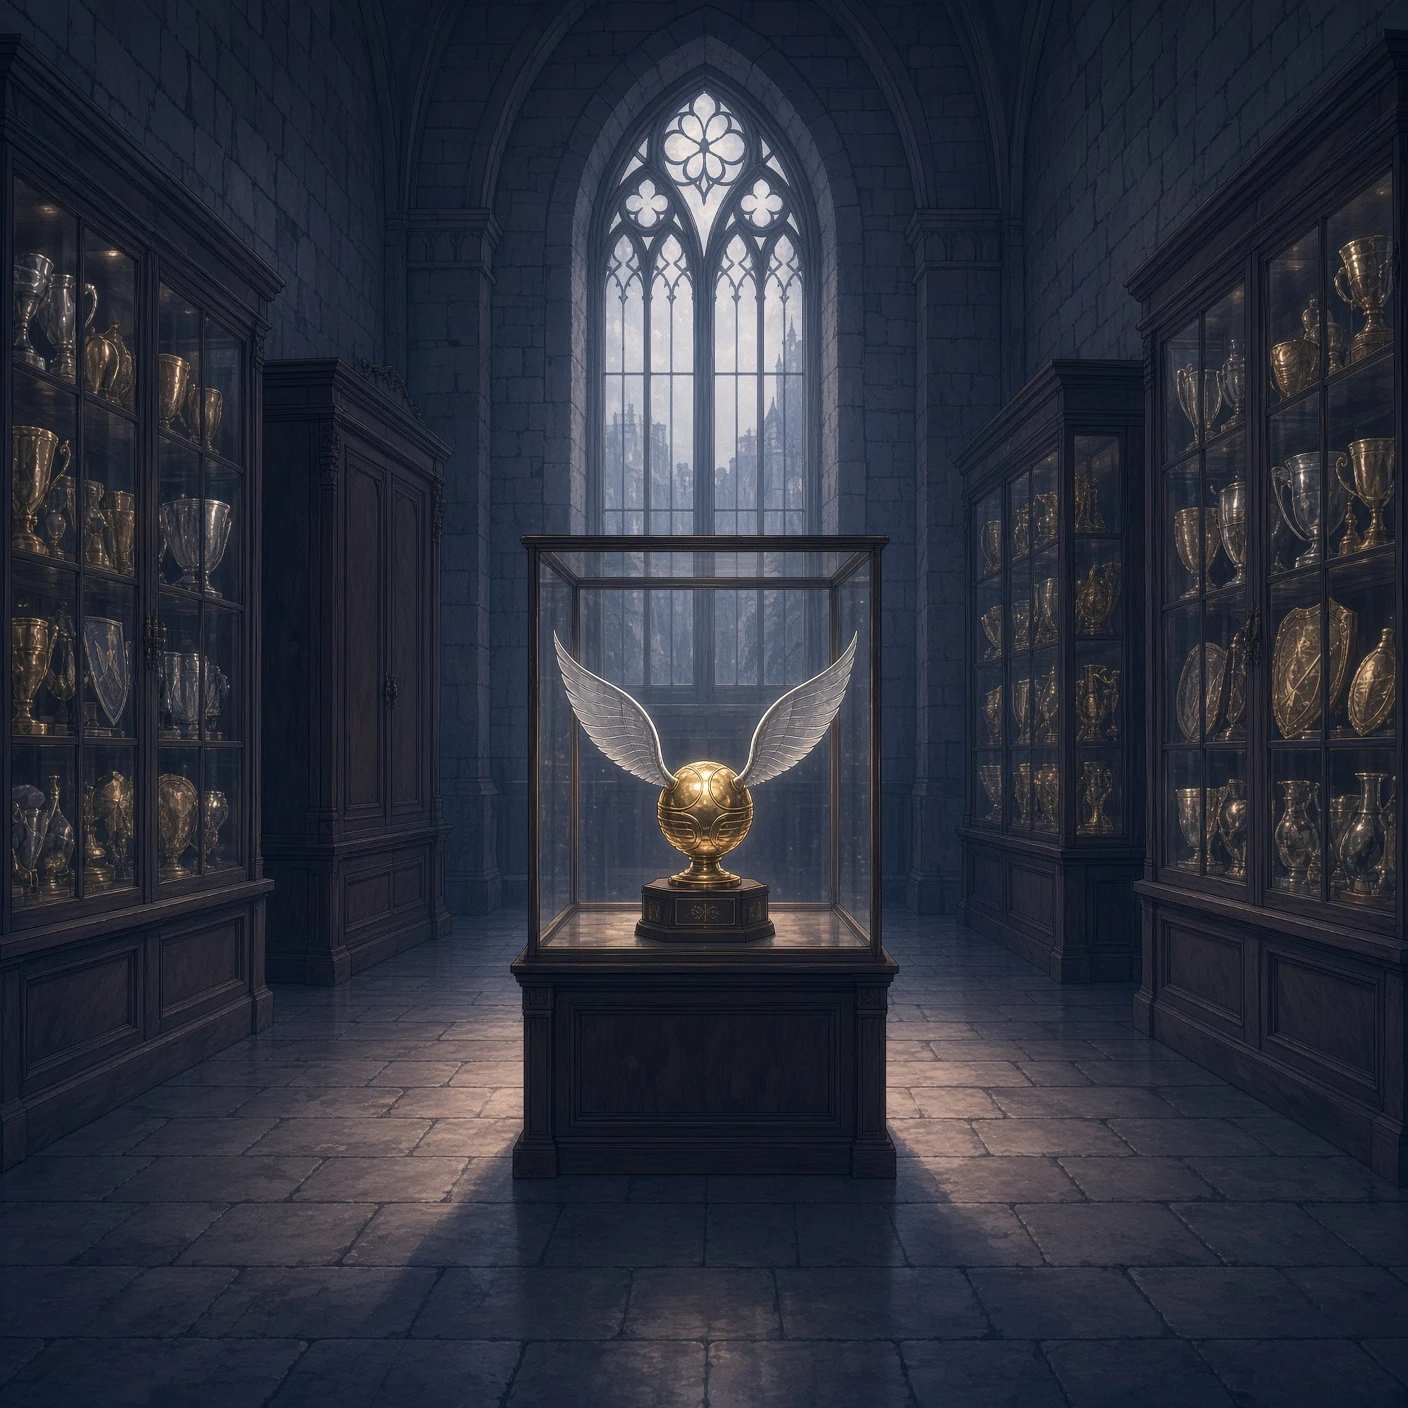
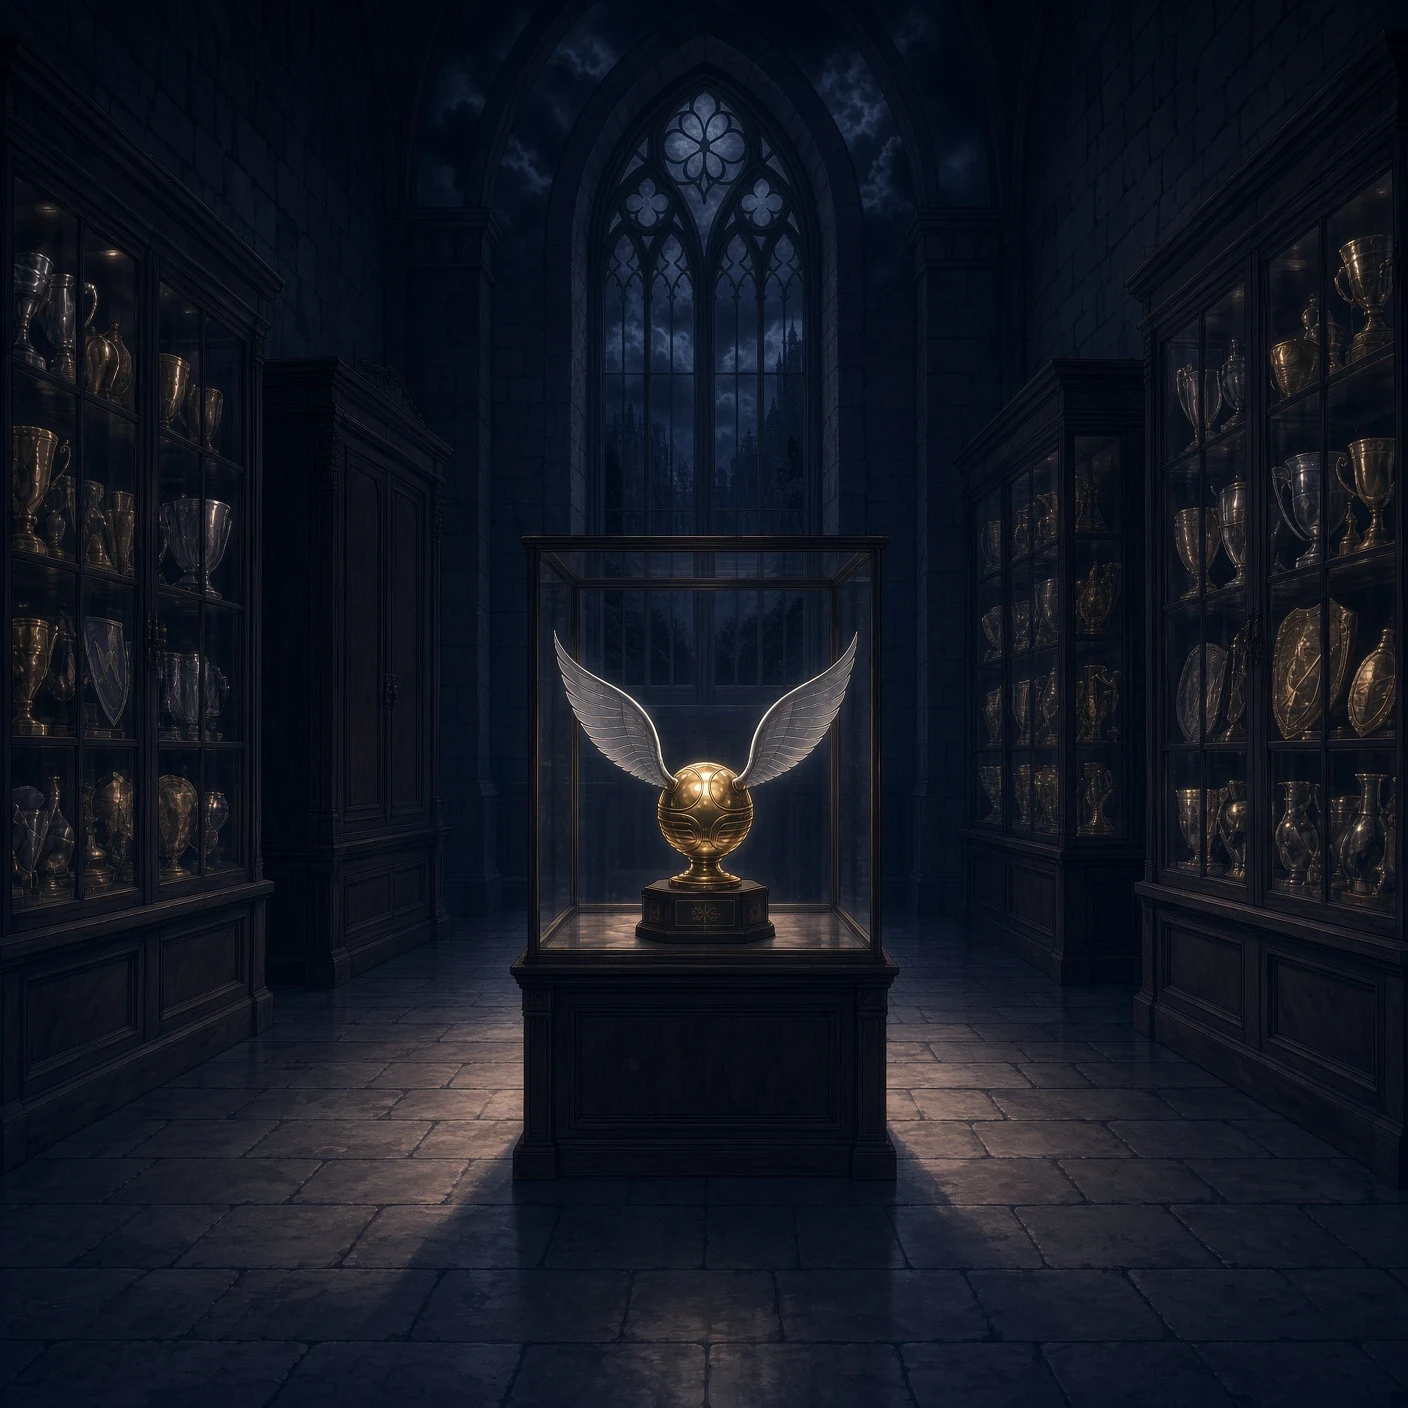
v1.2.2：修正換背景後角色未登場、設定頁按鈕與字色、奈威立繪 - 第三、五、八、十一章共 20 處：換背景後補上角色登場（原本轉成換表情，角色消失） - analyze.mjs：模擬換背景全員退場，可偵測此類問題 - 設定「只略過已讀的句子」切換後選取狀態錯誤；設定文字加深 - 奈威六張立繪用原圖重新處理，手臂與頭之間的縫恢復透明 - 獎盃室背景換成正式圖
Claude-Session: https://claude.ai/code/session_01PBz3XtJH24Y1YSvrrUcm13

diff --git a/engine/screens.js b/engine/screens.js
@@ -315,8 +315,8 @@ function openConfig() {
     seg(main, "文字顯示速度", "text", ["慢", "普通", "快"]);
     seg(main, "自動播放速度", "auto", ["慢", "普通", "快"]);
     const box = el("span.ctl.vn_seg");
-    [["開", 1], ["關", 0]].forEach(([nm, v]) => box.append(tap(el("span" + (c.skipRead === v ? ".on" : ""), { text: nm }), () => {
-      c.skipRead = v; [...box.children].forEach((x) => x.classList.toggle("on", x.textContent === nm)); saveSf();
+    [["開", 1], ["關", 0]].forEach(([nm, v], i) => box.append(tap(el("span" + (c.skipRead === v ? ".on" : ""), { text: nm }), () => {
+      c.skipRead = v; [...box.children].forEach((x, j) => x.classList.toggle("on", j === i)); saveSf();   // 用位置判斷：按鈕裡有裝飾元素時，比對文字會失準
     })));
     main.append(el("div.vn_cfg_row", {}, el("span.lb", { text: "只略過已讀的句子" }), box), el("div.vn_cfg_note", { text: "關閉時，會略過尚未閱讀的句子" }));
     slider(main, "背景音樂", "bgm"); slider(main, "語音", "voice"); slider(main, "效果音", "se");

diff --git a/engine/style/screens.css b/engine/style/screens.css
@@ -726,3 +726,7 @@
 @keyframes vn_etr_glow { 0% { opacity: 0; } 35% { opacity: 1; } 70% { opacity: 0.7; } 100% { opacity: 1; } }
 @keyframes vn_etr_sweep { from { transform: translateX(-60%); opacity: 0; } 20% { opacity: 1; } 80% { opacity: 1; } to { transform: translateX(60%); opacity: 0; } }
 @keyframes vn_etr_veil { 0% { opacity: 1; } 18% { opacity: 0; } 88% { opacity: 0; } 100% { opacity: 0.35; } }
+
+/* 設定：文字壓在羊皮紙的污漬與燒痕上會撞色，字色加深（不加光暈） */
+.vn_cfg_row .lb, .vn_cfg_row .val { color: #1e0f03; }
+.vn_cfg_note { color: #2e1a08; }

diff --git a/README.md b/README.md
@@ -1,4 +1,4 @@
-# Draconia's Story｜鉑金色的馬份　v1.2.1
+# Draconia's Story｜鉑金色的馬份　v1.2.2
 
 哈利波特同人視覺小說。網頁版，手機、電腦都能玩，直向／橫向自動切換。
 
@@ -38,6 +38,7 @@
 - 設定（同一頁）：文字速度、自動速度、只略過已讀、三種音量（每 1 點調整）
 
 ## 版本
+- **v1.2.2**：修正換背景後角色沒有重新登場（引擎換背景時全員退場，轉檔時把「登場」轉成了換表情），第三、五、八、十一章共 20 處補上登場；靜態分析 analyze.mjs 也改為模擬換背景退場，能找出這類問題。設定頁「只略過已讀的句子」切換時兩個按鈕都變成未選取的問題已修正，設定文字加深避免與紙紋撞色。奈威六張立繪用原圖重新處理（手臂與頭之間的縫改回透明）。獎盃室背景換成正式圖。
 - **v1.2.1**：修正背景音樂換曲時舊曲不會停（淡入淡出共用一個計時器，新曲淡入會中斷舊曲的淡出），造成讀檔、換曲、返回標題時多首音樂疊在一起播；改為每首各自淡入淡出。
 - **v1.2.0**：加入背景音樂 20 首（assets/bgm/），介面也有音樂：首頁與儲思盆、圖鑑、設定、章節完結頁播 title，終結頁接續 terminal，章名畫面不播。新增結局過渡畫面：年級最後一句之後播放結局 CG 緩慢放大＋光暈與光點（5 秒，點擊可略過，播 ending），再進年級結算且音樂不中斷；結算頁點 CG 可重看。第十一章佛地魔決戰改用 final_battle、第十二章王十字車站改用 farewell。年級完結頁、終結頁標題改為「一年級．完結」「一年級．終結」並放大；直向時結局 CG 改用 3:4 直框。未上線的下一章提示改為「敬請期待」並加深字色，年級結算頁鎖住的按鈕改半透明。首頁先在背景預先下載介面圖（羊皮紙、章名與完結畫面背景、羽毛筆、封蠟），避免第一次打開時閃出舊紋理。第九章選項改為「她大概……也不想這樣吧。」。
 - **v1.1.0**：依《音樂與效果音清單》在一年級十二章劇本加入全部背景音樂（各場景開頭與場景中途換曲、停止、終結）；背景音樂換曲、停止預設淡出／淡入 1 秒，劇本可用 `fade=` 指定（第六章教授趕到、第十一章笛聲與昏迷三處為 3 秒）；重新核對效果音 55 處位置無誤。CG#1 長袍店的初遇焦點下移（50% 10%）；圖鑑移除 23 個待定空位，只列出現有 CG。音檔尚未放入 assets/bgm/。
